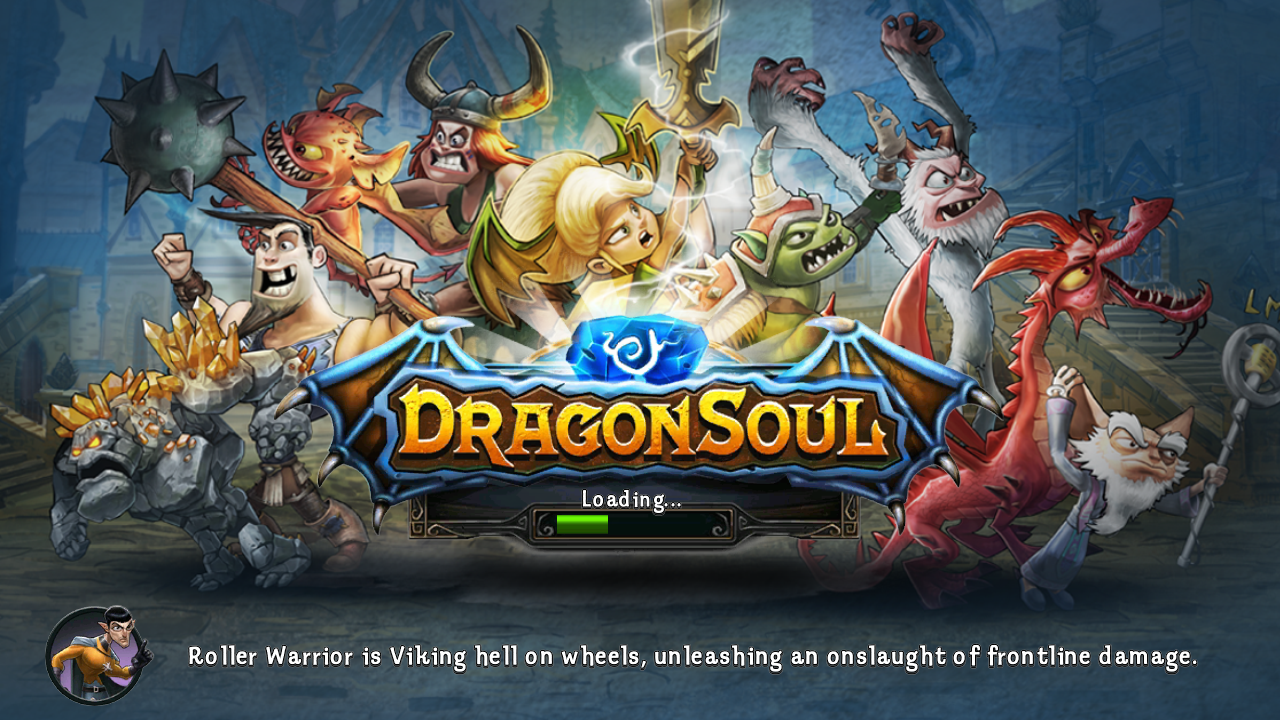
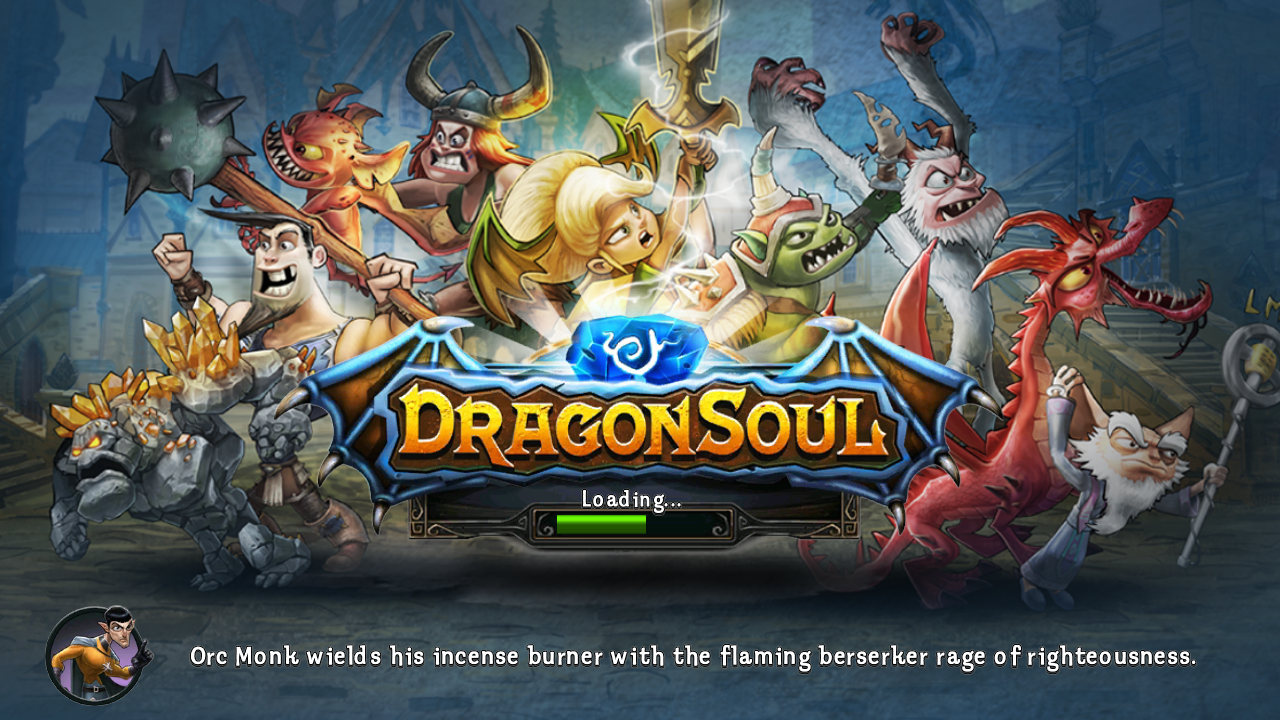
desktop-port: diagnose MainMenu stall — home screen waits for BootData
Instrumented the boot with two opt-in launcher diagnostics (DS_TRACE_SCREEN,
DS_PROBE_ATLAS) and traced the state machine after the atlas fix:

- LoadingScreen reaches its GAME state; the start screen (MainMenuScreen) is
  created but stays in CREATING, totalProgress frozen at ~0.58.
- BaseScreen.create() would set CREATED immediately (isAsyncLoaded()==false), but
  MainMenuScreen.create() forces loadState=CREATING after super.create().
- MainMenuScreen only advances to CREATED inside updateFromNetwork(msg) when
  msg instanceof BootData (→ refreshUserInfo, RPGMain.bootDataHandled).

So the home screen legitimately completes on receiving a BootData message: the
game has reached the point that needs the login server (TCP → ClientInfo1 →
BootData1, see PROTOCOL.md). Documented in PROGRESS.md, with the real loading
screen captured to docs/screenshot-loading.png. Also notes Gdx.net (singleton
field ...utils.b.a.f) is not yet wired.

Claude-Session: https://claude.ai/code/session_01HmrQih4ir9npZDbxquawsG

Changed region(s): [[0.125, 0.8861, 0.9375, 0.9472], [0.4688, 0.7028, 0.5, 0.7639]]

diff --git a/desktop-port/src/main/java/desktop/DesktopLauncher.java b/desktop-port/src/main/java/desktop/DesktopLauncher.java
@@ -209,6 +209,7 @@ public final class DesktopLauncher {
             if (driver != null) driver.onFrame(frames);
             app.drainRunnables();
             game.render();
+            if (Boolean.getBoolean("DS_TRACE_SCREEN") && frames % 200 == 0) traceScreen(game, frames);
             String shot = System.getProperty("DS_SCREENSHOT");
             if (shot != null && (frames == maxFrames - 1)) captureScreenshot(shot, W, H);
             glfwSwapBuffers(win);
@@ -216,6 +217,7 @@ public final class DesktopLauncher {
             frames++;
             if (driver != null && driver.isDone() && maxFrames == 0) break;
         }
+        if (Boolean.getBoolean("DS_TRACE_SCREEN")) traceScreen(game, frames);
         System.out.println("[launcher] ran " + frames + " frames, disposing");
         try { game.dispose(); } catch (Throwable t) { t.printStackTrace(System.out); }
         glfwDestroyWindow(win);
@@ -235,6 +237,27 @@ public final class DesktopLauncher {
         }
         org.lwjgl.stb.STBImageWrite.stbi_write_png(path, w, h, 4, flip, w * 4);
         System.out.println("[launcher] screenshot -> " + path);
+    }
+
+    /** Diagnostic: report the current screen, its LoadState and (for LoadingScreen)
+     *  its total progress, to see where boot stalls. */
+    static void traceScreen(com.perblue.rpg.RPGMain game, long frame) {
+        try {
+            com.perblue.rpg.ui.screens.BaseScreen scr = game.getScreenManager().getScreen();
+            String cls = scr == null ? "null" : scr.getClass().getName();
+            String extra = "";
+            if (scr != null) {
+                extra = " loadState=" + scr.getLoadState()
+                      + " loadingNew=" + game.getScreenManager().isLoadingNewScreen();
+                if (scr instanceof com.perblue.rpg.ui.screens.LoadingScreen)
+                    extra += " totalProgress="
+                          + ((com.perblue.rpg.ui.screens.LoadingScreen) scr).getTotalProgress();
+            }
+            com.perblue.rpg.ui.screens.BaseScreen start = game.getStartScreen();
+            String startInfo = start == null ? "start=null"
+                : "start=" + start.getClass().getSimpleName() + "/" + start.getLoadState();
+            System.out.println("[screen] f" + frame + " " + cls + extra + " " + startInfo);
+        } catch (Throwable t) { System.out.println("[screen] trace failed: " + t); }
     }
 
     /** Diagnostic: load a PNG straight through the game's Pixmap to surface the

diff --git a/desktop-port/PROGRESS.md b/desktop-port/PROGRESS.md
@@ -204,3 +204,54 @@ bash run-desktop.sh                              # headless, N frames puis dispo
 - [ ] Serveur local (contenu + jeu) : `Dragonsoul-server v2` du repo d'extraction
 - [ ] Fonts CJK multi-pages (Chinese/Korean/Japanese) — non bloquant
 - [ ] Remplacer `-Xverify:none` par recalcul stackmaps ASM (robustesse)
+
+---
+## 🖼 Écran de chargement RÉEL affiché + diagnostic du blocage MainMenu
+
+### Course async ui_main.atlas — RÉSOLUE
+Le jeu franchissait le gate de contenu et atteignait `MainMenuScreen.createUI`, qui
+plantait sur `Asset not loaded: ETC/XHDPI/world/ui/ui_main.atlas` — alors que
+l'atlas ET ses 4 pages `.etc1` existent et se chargent parfaitement isolément.
+
+**Cause racine** (validée par la sonde `DS_PROBE_ATLAS`) : libGDX indexe chaque
+asset par la chaîne passée à `Gdx.files.internal(path)`. `SeletonDataLoader`
+(loader Spine du jeu) met en file sa dépendance atlas via un
+`AssetDescriptor(FileHandle)` → **clé = `FileHandle.path()`**, puis son `loadSync`
+fait `get(param.atlasFile)` avec la **chaîne relative brute**. Sur Android les deux
+coïncident (les handles internal gardent leur chemin relatif). Notre `DsFiles`
+renvoyait des handles **absolus** → dépendance rangée sous la clé absolue,
+`get(relatif)` la manque → « Asset not loaded » (avalé par `taskFailed`).
+
+**Correctif** : `DsFiles` renvoie des handles **Classpath à chemin relatif** pour
+les assets internal/classpath (`DsFileHandle` expose le ctor protégé
+`FileHandle(String,type)`), et `run-desktop.sh` met la racine des assets sur le
+classpath → les lectures passent par le classloader, `path()` reste relatif, les
+clés matchent le jeu comme sur Android. External/local restent des handles absolus.
+
+**Résultat** : le jeu affiche le **vrai écran de chargement DragonSoul** (art ETC1
+des héros, logo, barre de progression, astuces) — `docs/screenshot-loading.png`.
+
+### Blocage suivant : MainMenu attend `BootData` (→ serveur de login)
+Instrumenté `DS_TRACE_SCREEN` : après chargement, `LoadingScreen` reste en état
+`GAME` avec `start=MainMenuScreen/CREATING`, `totalProgress` figé à ~0.58.
+
+Décompilation de la machine à états :
+- `LoadingScreen.render` (GAME) : crée le start screen, puis attend
+  `getStartScreen().getLoadState()==CREATED` pour transiter vers le home.
+- `BaseScreen.create()` mettrait `CREATED` immédiatement (`isAsyncLoaded()==false`),
+  **mais `MainMenuScreen.create()` force `loadState=CREATING`** après `super.create()`.
+- `MainMenuScreen` ne passe `CREATED` **que dans `updateFromNetwork(msg)`** quand
+  `msg instanceof BootData` → `refreshUserInfo()`, `RPGMain.bootDataHandled()`.
+
+**Conclusion** : le home screen se termine à la réception d'un message **`BootData`**.
+Le jeu est donc légitimement arrivé au point où il faut le **serveur de login**
+(connexion TCP → `ClientInfo1` → réponse `BootData1`, cf. PROTOCOL.md). Prochaine
+étape : implémenter ce serveur (puis multi-serveur, cf. SERVER_DESIGN.md).
+Note backend : `Gdx.net` (champ `com.badlogic.gdx.utils.b.a.f`) n'est pas encore
+câblé — à vérifier selon que le jeu utilise `Gdx.net` ou des sockets java bruts.
+
+### Diagnostics ajoutés au launcher (tous opt-in)
+- `DS_PROBE_ATLAS=<path>` : charge un atlas en sync + async + via AssetDescriptor,
+  révèle les exceptions avalées et les collisions de clé.
+- `DS_TRACE_SCREEN=true` : logge écran courant / LoadState / totalProgress / start screen.
+- `DS_TRACE_FILES=true` : trace chaque résolution de fichier (OK/MISS/CP).
